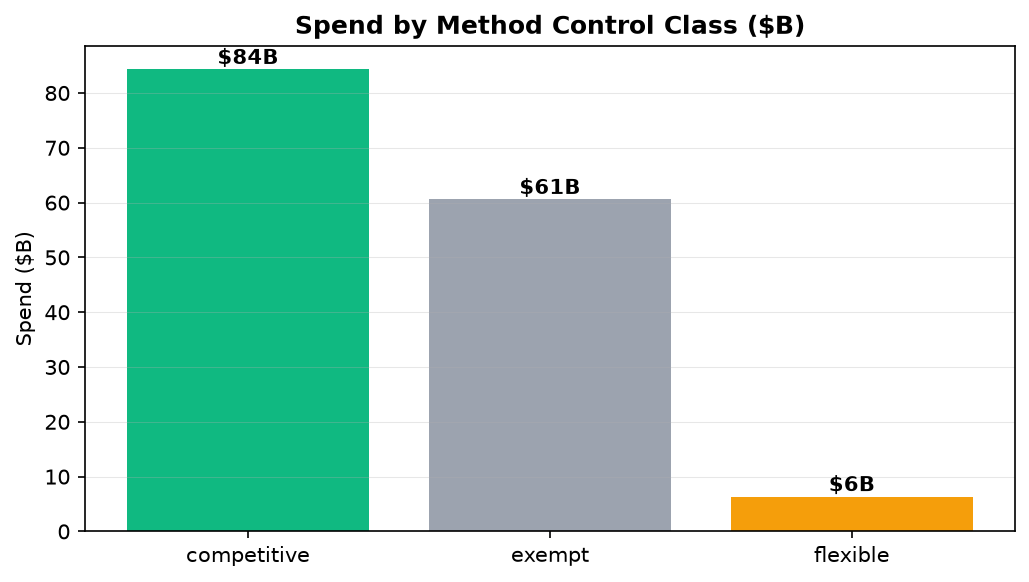
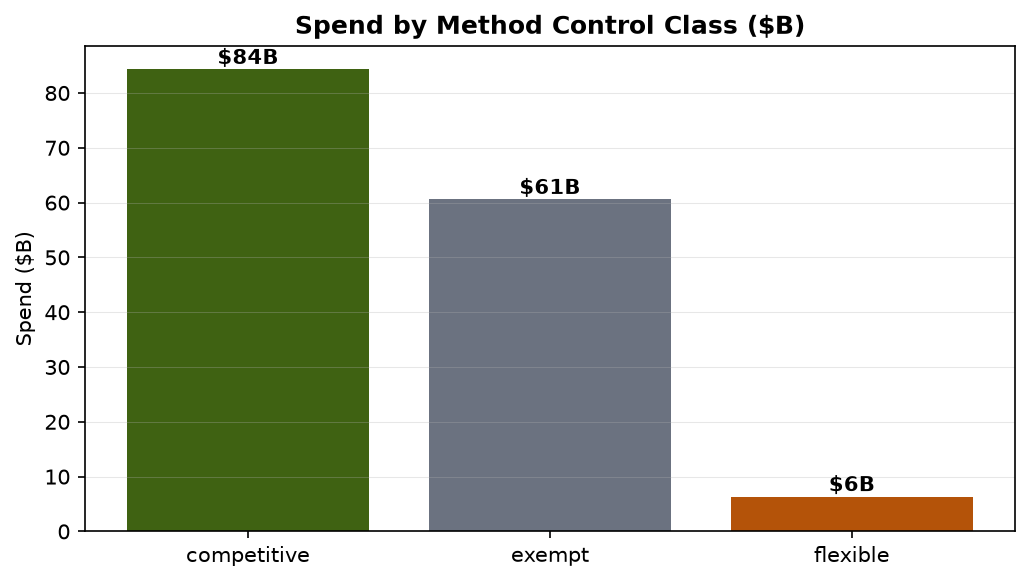
style: professional palette (navy/steel/amber); replace UNSPSC pie with clear horizontal bars, fix share basis to % of total

diff --git a/scripts/generate_charts.py b/scripts/generate_charts.py
@@ -19,12 +19,13 @@ OUT_DIR = os.path.join(ROOT, "output")
 ASSET_DIR = os.path.join(ROOT, "assets")
 os.makedirs(ASSET_DIR, exist_ok=True)
 
-BLUE = "#2563eb"
-NAVY = "#1e3a8a"
-ORANGE = "#f59e0b"
-GREEN = "#10b981"
-RED = "#ef4444"
-GREY = "#9ca3af"
+BLUE = "#2e6f8e"    # steel blue (primary data color)
+NAVY = "#16324a"    # deep navy (emphasis)
+ORANGE = "#b45309"  # burnt amber (highlight)
+GREEN = "#3f6212"   # muted olive (positive / competitive)
+RED = "#b91c1c"     # muted red (flag / alert)
+GREY = "#6b7280"    # neutral grey
+LIGHT = "#cbd5e1"   # light steel (secondary)
 
 
 def _save(fig, name):
@@ -88,17 +89,25 @@ for i, s in enumerate(dep_share.values[::-1]):
 ax.grid(axis="x", alpha=0.3, lw=0.5)
 _save(fig, "department.png")
 
-# --- 4) UNSPSC segment ------------------------------------------------------
-u = df.copy()
-seg = u.groupby("segment")["total_price"].sum().sort_values(ascending=False).head(8)
-seg_share = seg / seg.sum()
-fig, ax = plt.subplots(figsize=(8, 4))
-ax.pie(seg_share.values, labels=seg.index, autopct="%1.0f%%",
-       colors=[NAVY, BLUE, "#60a5fa", "#93c5fd", "#bfdbfe", "#dbeafe",
-               ORANGE, GREY],
-       startangle=90, textprops={"fontsize": 9})
-ax.set_title("Top UNSPSC Segments — segment 85 (Healthcare) alone = 73.9% of spend",
+# --- 4) UNSPSC segment (horizontal bars, unambiguous labels) ----------------
+seg = df.groupby("segment")["total_price"].sum().sort_values(ascending=False).head(8)
+seg_share = seg / grand
+fig, ax = plt.subplots(figsize=(8.5, 4.4))
+labels = seg.index[::-1]
+vals = seg.values[::-1] / 1e9
+shares = seg_share.values[::-1]
+colors = [ORANGE if l == "85" else GREY for l in labels]
+ax.barh(range(len(labels)), vals, color=colors)
+ax.set_yticks(range(len(labels)))
+ax.set_yticklabels([f"Segment {l}" for l in labels], fontsize=10)
+for i, (v, s) in enumerate(zip(vals, shares)):
+    hi = labels[i] == "85"
+    ax.text(v + 0.5, i, f"${v:.1f}B · {s*100:.1f}%", va="center", fontsize=9,
+            color=NAVY if hi else GREY, fontweight="bold" if hi else "normal")
+ax.set_title("Top UNSPSC Segments by Spend ($B) — segment 85 (healthcare) = 73.9%",
              fontsize=11, fontweight="bold")
+ax.set_xlabel("Spend ($B)")
+ax.grid(axis="x", alpha=0.3, lw=0.5)
 _save(fig, "category_segment.png")
 
 # --- 5) Acquisition-method control class (competitive / exempt / flexible) --
@@ -125,7 +134,7 @@ tier["spend"] = tier["spend"] / 1e9
 fig, ax = plt.subplots(figsize=(8.5, 4.4))
 order = tier.index.tolist()
 labels = {"core": "Core (strategic)", "regular": "Regular", "oneoff": "One-off"}
-colors = {"core": NAVY, "regular": BLUE, "oneoff": "#93c5fd"}
+colors = {"core": NAVY, "regular": BLUE, "oneoff": LIGHT}
 for i, t in enumerate(order):
     ax.barh(order[::-1][i], tier["spend"][order[::-1][i]], color=colors[order[::-1][i]])
 labels_y = [labels[o] for o in order[::-1]]
